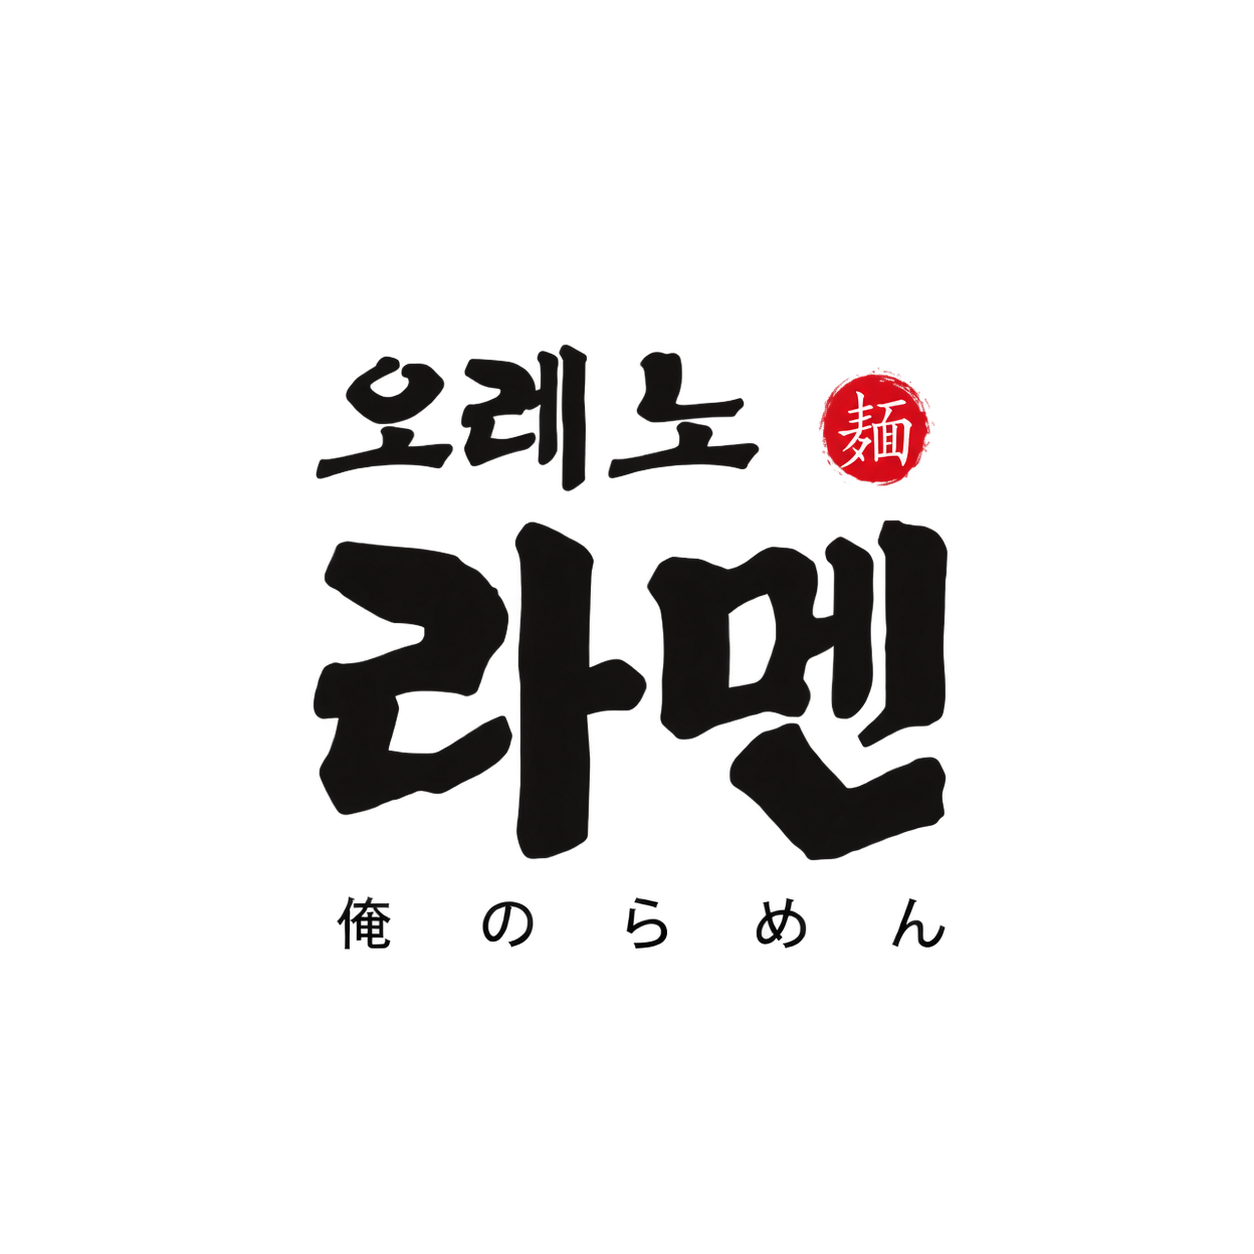
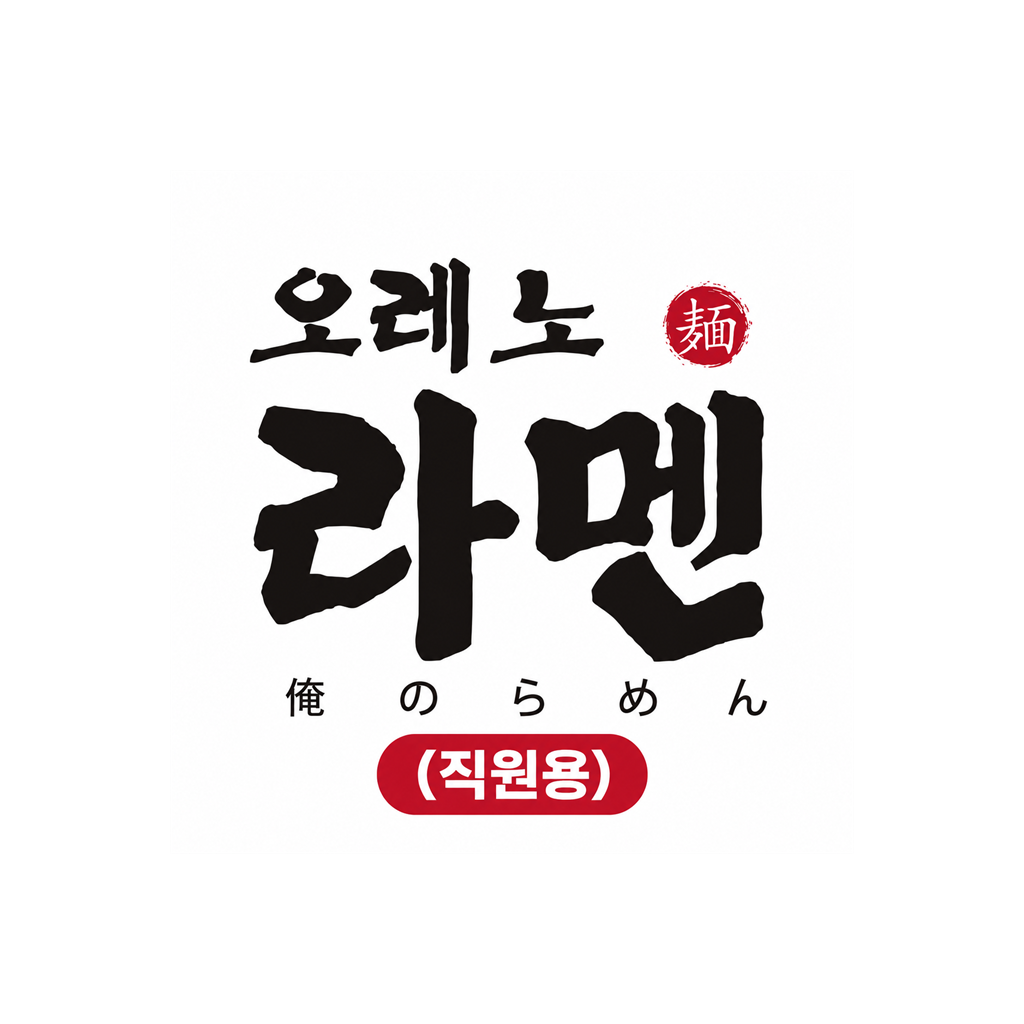
chore: label staff-only store assets

Changed region(s): [[0.25, 0.25, 0.7812, 0.8125]]

diff --git a/배포/privacy-policy.html b/배포/privacy-policy.html
@@ -3,13 +3,13 @@
 <head>
   <meta charset="utf-8">
   <meta name="viewport" content="width=device-width, initial-scale=1">
-  <title>오레노라멘 학습 개인정보처리방침</title>
+  <title>오레노라멘 학습 (직원용) 개인정보처리방침</title>
   <style>body{max-width:780px;margin:0 auto;padding:32px 20px;font:16px/1.7 system-ui,sans-serif;color:#171717}h1,h2{line-height:1.3}code{background:#f3f1ee;padding:2px 5px;border-radius:4px}.notice{padding:16px;background:#fff3cd;border-radius:8px}</style>
 </head>
 <body>
-  <h1>오레노라멘 학습 개인정보처리방침</h1>
-  <p class="notice"><strong>게시 전 수정:</strong> REPLACE_OPERATOR_NAME, REPLACE_PUBLIC_SUPPORT_EMAIL, REPLACE_EFFECTIVE_DATE를 실제 값으로 바꾸고 법률 검토를 완료하세요.</p>
-  <p><code>REPLACE_OPERATOR_NAME</code>(이하 “운영자”)는 오레노라멘 학습 앱을 운영하며 관련 법령에 따라 개인정보를 보호합니다.</p>
+  <h1>오레노라멘 학습 (직원용) 개인정보처리방침</h1>
+  <p class="notice"><strong>게시 전 수정:</strong> REPLACE_OPERATOR_NAME과 REPLACE_EFFECTIVE_DATE를 실제 값으로 바꾸고 법률 검토를 완료하세요.</p>
+  <p><code>REPLACE_OPERATOR_NAME</code>(이하 “운영자”)는 오레노라멘 학습 (직원용) 앱을 운영하며 관련 법령에 따라 개인정보를 보호합니다.</p>
   <h2>1. 수집 항목</h2>
   <ul><li>필수: 이름, 이메일 주소, 휴대폰 번호, 소속 지점, 직원 레벨, 사용자 식별자</li><li>서비스 이용 중 생성: 학습·시험 답변, 점수, 오답, 학습 시간, 공지 읽음 기록</li><li>관리자 선택: 공지 제목·본문·이미지</li></ul>
   <h2>2. 이용 목적</h2>
@@ -19,11 +19,11 @@
   <h2>4. 보관 및 삭제</h2>
   <p>계정 이용 중 정보를 보관하며 사용자가 앱에서 계정 삭제를 완료하면 계정과 연관된 개인정보 및 학습 기록을 삭제합니다. 법령상 보관 의무 또는 보안·재해 복구 목적의 제한된 백업 보관이 필요한 경우 해당 기간 이후 안전하게 삭제합니다.</p>
   <h2>5. 이용자 권리</h2>
-  <p>앱의 <strong>내 정보 → 계정 영구 삭제</strong>에서 삭제할 수 있으며 열람·정정·삭제 관련 문의는 <a href="mailto:REPLACE_PUBLIC_SUPPORT_EMAIL">REPLACE_PUBLIC_SUPPORT_EMAIL</a>로 접수할 수 있습니다.</p>
+  <p>앱의 <strong>내 정보 → 계정 영구 삭제</strong>에서 삭제할 수 있으며 열람·정정·삭제 관련 문의는 <a href="mailto:mungmung2sv@naver.com">mungmung2sv@naver.com</a>로 접수할 수 있습니다.</p>
   <h2>6. 안전성 확보 조치</h2>
   <p>전송 구간 암호화, 역할 기반 접근 제한, 데이터베이스 행 수준 보안 및 관리자 작업 기록을 적용합니다.</p>
   <h2>7. 문의</h2>
-  <p>운영자: REPLACE_OPERATOR_NAME<br>이메일: REPLACE_PUBLIC_SUPPORT_EMAIL</p>
+  <p>운영자: REPLACE_OPERATOR_NAME<br>이메일: <a href="mailto:mungmung2sv@naver.com">mungmung2sv@naver.com</a></p>
   <p>시행일: REPLACE_EFFECTIVE_DATE</p>
 </body>
 </html>

diff --git a/src/app/index.tsx b/src/app/index.tsx
@@ -70,7 +70,10 @@ export default function HomeScreen() {
         >
           <View style={styles.heroShade}>
             <Text style={styles.eyebrow}>ORENO RAMEN · STAFF TRAINING</Text>
-            <Text style={styles.heroTitle}>오레노라멘 학습</Text>
+            <View style={styles.titleRow}>
+              <Text style={styles.heroTitle}>오레노라멘 학습</Text>
+              <Text style={styles.staffTag}>(직원용)</Text>
+            </View>
             <Text style={styles.heroCopy}>짧게, 반복해서, 확실하게 익혀보세요.</Text>
           </View>
         </ImageBackground>
@@ -140,7 +143,10 @@ export default function HomeScreen() {
           >
             <View style={styles.introShade}>
               <Text style={styles.introEyebrow}>ORENO RAMEN</Text>
-              <Text style={styles.introTitle}>오레노라멘 학습</Text>
+              <View style={styles.titleRow}>
+                <Text style={styles.introTitle}>오레노라멘 학습</Text>
+                <Text style={styles.introStaffTag}>(직원용)</Text>
+              </View>
               <Text style={styles.introCopy}>맛의 기준을 익히는 시간</Text>
             </View>
           </ImageBackground>
@@ -176,7 +182,9 @@ const styles = StyleSheet.create({
     backgroundColor: 'rgba(0,0,0,0.38)',
   },
   eyebrow: { color: '#F5C8C4', fontSize: 11, fontWeight: '900', letterSpacing: 1.2 },
-  heroTitle: { color: colors.white, fontSize: 30, fontWeight: '900', letterSpacing: -1, marginTop: 6 },
+  titleRow: { flexDirection: 'row', alignItems: 'center', flexWrap: 'wrap', gap: 8, marginTop: 6 },
+  heroTitle: { color: colors.white, fontSize: 30, fontWeight: '900', letterSpacing: -1 },
+  staffTag: { color: colors.white, backgroundColor: colors.brand, fontSize: 12, fontWeight: '900', paddingHorizontal: 8, paddingVertical: 4, borderRadius: 6, overflow: 'hidden' },
   heroCopy: { color: '#F5F5F5', fontSize: 14, marginTop: 5 },
   menuList: { gap: spacing.md },
   noticeSection: { backgroundColor: colors.surface, borderWidth: 1, borderColor: colors.border, borderRadius: radii.lg, padding: spacing.md, gap: spacing.xs },
@@ -206,6 +214,7 @@ const styles = StyleSheet.create({
     backgroundColor: 'rgba(0,0,0,0.36)',
   },
   introEyebrow: { color: '#F3AAA4', fontSize: 12, fontWeight: '900', letterSpacing: 2 },
-  introTitle: { color: colors.white, fontSize: 34, fontWeight: '900', letterSpacing: -1.2, marginTop: 8 },
+  introTitle: { color: colors.white, fontSize: 34, fontWeight: '900', letterSpacing: -1.2 },
+  introStaffTag: { color: colors.white, backgroundColor: colors.brand, fontSize: 13, fontWeight: '900', paddingHorizontal: 9, paddingVertical: 5, borderRadius: 6, overflow: 'hidden' },
   introCopy: { color: '#F1EFEC', fontSize: 15, fontWeight: '600', marginTop: 8 },
 });

diff --git a/배포/account-deletion.html b/배포/account-deletion.html
@@ -3,12 +3,11 @@
 <head>
   <meta charset="utf-8">
   <meta name="viewport" content="width=device-width, initial-scale=1">
-  <title>오레노라멘 학습 계정 삭제</title>
+  <title>오레노라멘 학습 (직원용) 계정 삭제</title>
   <style>body{max-width:720px;margin:0 auto;padding:32px 20px;font:16px/1.7 system-ui,sans-serif;color:#171717}.card{padding:20px;border:1px solid #ddd;border-radius:8px}a.button{display:inline-block;padding:12px 16px;background:#171717;color:#fff;text-decoration:none;border-radius:8px}.notice{color:#a11}</style>
 </head>
 <body>
-  <h1>오레노라멘 학습 계정 삭제</h1>
-  <p class="notice"><strong>게시 전 수정:</strong> REPLACE_PUBLIC_SUPPORT_EMAIL을 실제 공개 문의 주소로 바꾸세요.</p>
+  <h1>오레노라멘 학습 (직원용) 계정 삭제</h1>
   <div class="card">
     <h2>앱에서 즉시 삭제</h2>
     <ol><li>앱에 로그인합니다.</li><li>홈에서 <strong>내 정보</strong>를 엽니다.</li><li><strong>계정 영구 삭제</strong>를 선택하고 확인합니다.</li></ol>
@@ -16,7 +15,7 @@
   </div>
   <h2>앱을 사용할 수 없는 경우</h2>
   <p>가입 이메일과 이름을 적어 아래 주소로 삭제를 요청하세요. 본인 확인 후 처리 결과를 안내합니다.</p>
-  <p><a class="button" href="mailto:REPLACE_PUBLIC_SUPPORT_EMAIL?subject=오레노라멘%20학습%20계정%20삭제%20요청">이메일로 삭제 요청</a></p>
-  <p>문의: REPLACE_PUBLIC_SUPPORT_EMAIL</p>
+  <p><a class="button" href="mailto:mungmung2sv@naver.com?subject=오레노라멘%20학습%20(직원용)%20계정%20삭제%20요청">이메일로 삭제 요청</a></p>
+  <p>문의: <a href="mailto:mungmung2sv@naver.com">mungmung2sv@naver.com</a></p>
 </body>
 </html>

diff --git a/배포/README.md b/배포/README.md
@@ -1,4 +1,4 @@
-# 오레노라멘 학습 앱 스토어 배포 안내
+# 오레노라멘 학습 (직원용) 앱 스토어 배포 안내
 
 작성 기준일: 2026-09-28
 
@@ -17,7 +17,7 @@
 ## 출시 전에 사람이 반드시 채워야 하는 항목
 
 1. Apple Developer Program과 Google Play Console 개발자 계정을 준비한다.
-2. `privacy-policy.html`, `account-deletion.html`의 대문자 `REPLACE_...` 값을 실제 운영자명, 공개 문의 이메일, 시행일로 바꾼다.
+2. `privacy-policy.html`의 대문자 `REPLACE_...` 값을 실제 운영자명과 시행일로 바꾼다. 공개 문의 이메일은 `mungmung2sv@naver.com`으로 반영되어 있다.
 3. 두 HTML을 HTTPS 공개 주소에 배포하고 각 스토어에 URL을 입력한다.
 4. 일반 직원 권한의 심사용 계정을 별도로 만든다. dev/최고관리자 계정은 심사 계정으로 제공하지 않는다.
 5. 실기기에서 가입, 승인, 로그인, 학습, 시험, 비밀번호 찾기, 계정 삭제를 점검한다.

diff --git a/배포/android/store-listing.md b/배포/android/store-listing.md
@@ -2,7 +2,7 @@
 
 ## 앱 이름
 
-오레노라멘 학습
+오레노라멘 학습 (직원용)
 
 ## 짧은 설명
 
@@ -10,7 +10,7 @@
 
 ## 자세한 설명
 
-오레노라멘 학습은 승인된 임직원이 매장 레시피와 운영 기준을 반복해서 학습하고 시험으로 확인하는 직원 전용 앱입니다.
+오레노라멘 학습 (직원용)은 승인된 임직원이 매장 레시피와 운영 기준을 반복해서 학습하고 시험으로 확인하는 직원 전용 앱입니다.
 
 - 카테고리와 세부 항목별 레시피 학습
 - 랜덤·카테고리·오답 중심 시험
@@ -33,3 +33,7 @@
 - `store-icon-512.png`: 512×512, Google Play 등록 아이콘
 - `feature-graphic-1024x500.png`: 1024×500, 필수 피처 그래픽
 - `screenshots/`: 실제 앱에서 촬영할 휴대전화 스크린샷 안내
+
+## 공개 문의
+
+- 이메일: `mungmung2sv@naver.com`

diff --git a/배포/ios/app-store-listing.md b/배포/ios/app-store-listing.md
@@ -2,7 +2,7 @@
 
 ## 이름
 
-오레노라멘 학습
+오레노라멘 학습 (직원용)
 
 ## 부제
 
@@ -14,7 +14,7 @@
 
 ## 설명
 
-오레노라멘 학습은 승인된 임직원을 위한 레시피 및 매장 운영 교육 앱입니다.
+오레노라멘 학습 (직원용)은 승인된 임직원을 위한 레시피 및 매장 운영 교육 앱입니다.
 
 카테고리별 학습, 랜덤·오답 시험, 개인 학습 리포트와 공지사항을 제공합니다. 관리자는 가입 승인, 직원 권한, 지점별 시험 통계와 공지를 관리할 수 있습니다.
 
@@ -36,3 +36,5 @@
 - 개인정보처리방침: `REPLACE_PRIVACY_POLICY_HTTPS_URL`
 - 지원 URL: `REPLACE_SUPPORT_HTTPS_URL`
 - 계정 삭제 안내: `REPLACE_ACCOUNT_DELETION_HTTPS_URL`
+
+공개 문의 이메일: `mungmung2sv@naver.com`

diff --git a/배포/android/screenshots/README.md b/배포/android/screenshots/README.md
@@ -2,6 +2,8 @@
 
 Play Console에 실제 앱 화면을 사용한다. 최소 2장 이상을 권장하며 개인정보와 실제 직원 이름은 노출하지 않는다.
 
+모든 스토어 스크린샷에는 앱 화면의 `(직원용)` 배지가 보이게 촬영하거나, 같은 문구를 이미지 하단에 명확히 표기한다.
+
 1. 로그인 화면
 2. 홈과 학습 메뉴
 3. 카테고리별 공부 화면

diff --git a/배포/ios/screenshots/README.md b/배포/ios/screenshots/README.md
@@ -2,6 +2,8 @@
 
 현재 설정은 iPhone 전용이다. App Store Connect가 지원하는 최신 6.9형 iPhone 세로 해상도로 1~10장을 업로드하며 실제 앱 화면만 사용한다.
 
+모든 스토어 스크린샷에는 앱 화면의 `(직원용)` 배지가 보이게 촬영하거나, 같은 문구를 이미지 하단에 명확히 표기한다.
+
 권장 순서:
 
 1. 로그인 화면

diff --git a/README.md b/README.md
@@ -1,4 +1,4 @@
-# 오레노라멘 직원용 레시피 학습 앱
+# 오레노라멘 학습 (직원용)
 
 오레노라멘 직원이 레시피와 식자재 관리 내용을 반복 학습하고 시험으로 점검하는 모바일 앱입니다. React Native, Expo, TypeScript, Expo Router와 Supabase Auth/Postgres/Edge Functions로 구성되어 있습니다.
 
